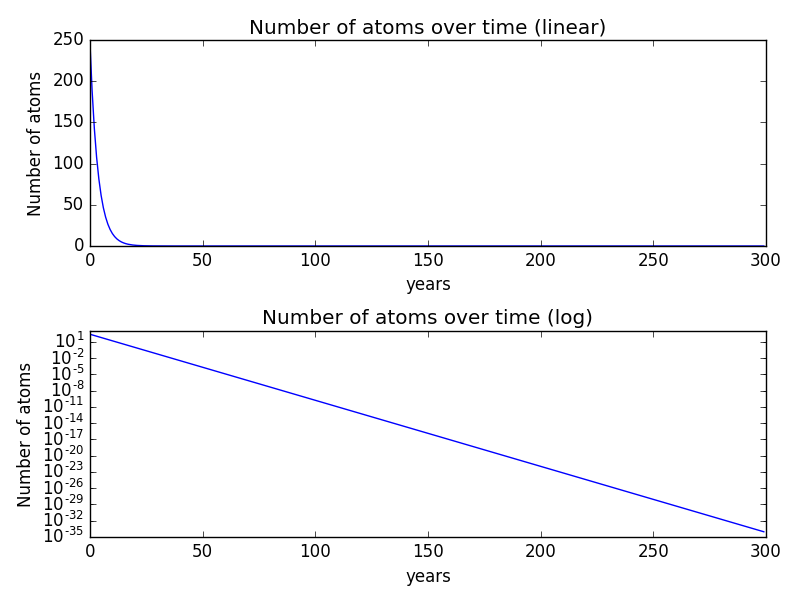
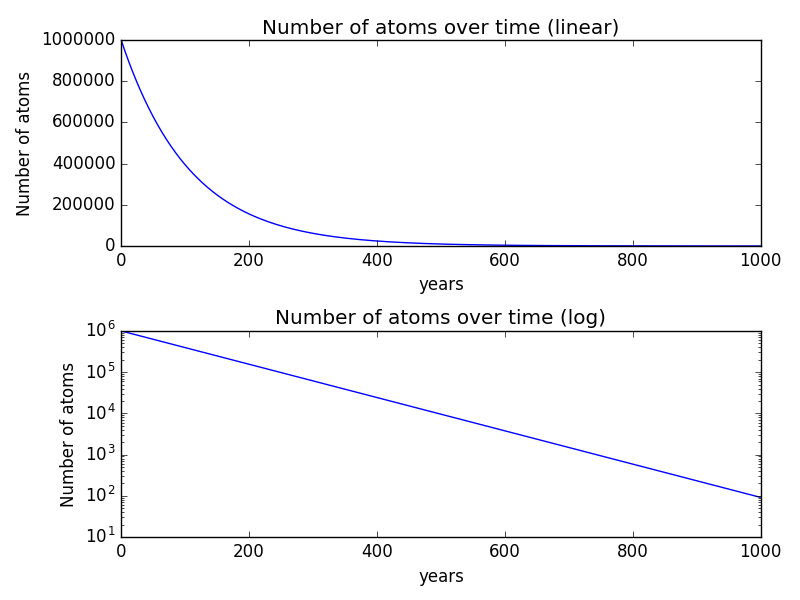
Fix exercise 1 and 2

diff --git a/Labs/Lab 4/Blackstone_3.py b/Labs/Lab 4/Blackstone_3.py
@@ -1,0 +1,35 @@
+import numpy as np
+import matplotlib.pyplot as plt
+
+def f(r,t):
+	x = r[0]
+	y = r[1]
+	fx = x*y - x
+	fy = y -x*y + np.sin(t)
+	return np.array([fx,fx],float)
+
+a = 0.0
+b = 10.0
+N = 10
+h = (b-a)/N
+
+tpoints = np.arange(a,b,h)
+xpoints = []
+ypoints = []
+
+r = np.array([1.0,1.0],float)
+
+for t in tpoints:
+	xpoints.append(r[0])
+	ypoints.append(r[1])
+	k1 = h*f(r,t)
+	k2 = h*f(r+0.5*k1,t+0.5*h)
+	r += 
+
+print(xpoints)
+print(ypoints)
+
+plt.plot(tpoints,xpoints)
+plt.plot(tpoints,ypoints)
+plt.xlabel("t")
+plt.show()

diff --git a/Labs/Lab 4/Blackstone_1.py b/Labs/Lab 4/Blackstone_1.py
@@ -2,8 +2,8 @@
 import matplotlib.pyplot as plt
 import numpy as np
 
-# define half life and step size in years
-tau = 75
+# define mean lifetime (half life/ln(2)) and step size in years
+tau = 75*1.44
 h = 1
 
 # Create a list with the initial value in the first cell

diff --git a/Labs/Lab 4/Blackstone_2.py b/Labs/Lab 4/Blackstone_2.py
@@ -2,8 +2,8 @@
 import matplotlib.pyplot as plt
 import numpy as np
 
-# define half life and step size in years
-tau = 3.82
+# define mean lifetime (half life * ln(2)) and step size in days
+tau = 3.82*1.44
 h = 0.0001
 flag = 0
 
